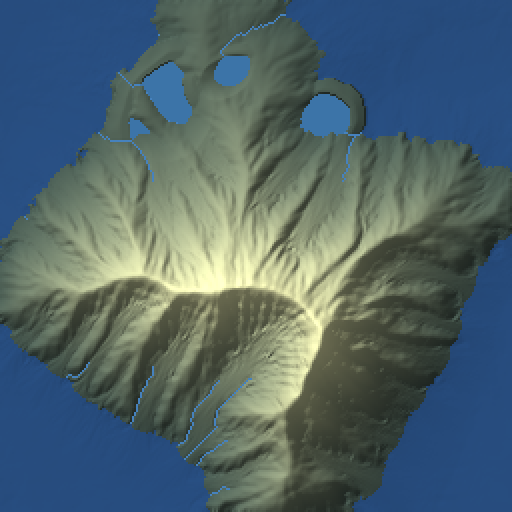
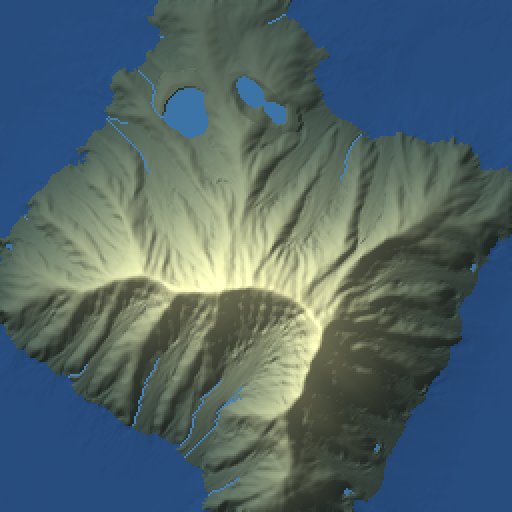
README: staged rebuild protection, fixed play-test start, manifest spawn, 162 tests; regenerate README images from the current generator
Claude-Session: https://claude.ai/code/session_01N4thvkQRHYqCzV9FLqSsD4

diff --git a/README.md b/README.md
@@ -124,7 +124,7 @@ python -m ofm generate --preset default --push unity         # 생성 후 열려
 | 가독성 | Lynch, *The Image of the City* | 랜드마크 후보(정상, 암석 지형, 폭포, 호수)의 가시선(LOS) 기반 현저성. 위치마다 보이는 랜드마크 수 |
 | 페이싱 / 탐험 | 플레이테스트 에이전트 | 아래 참고 |
 
-**호기심 기반 탐험 에이전트**(`psych/agents.py`): 프로필(`[[evaluation.profiles]]`)마다 정해진 수의 에이전트가 **토블러 보행 함수**(오르막에서 감속, 절벽·깊은 물 통과 불가, 동굴은 입구 사이 지름길)로 이동합니다. 인지 지도(본 것, 방문한 것)를 유지하며 *효용 / 이동시간*이 가장 큰 목표(발견한 POI, 랜드마크, 미탐색 경계)를 고릅니다. 이동하며 기록하는 것은 다음과 같습니다.
+**호기심 기반 탐험 에이전트**(`psych/agents.py`): 프로필(`[[evaluation.profiles]]`)마다 정해진 수의 에이전트가 첫 마을(없으면 맵 중앙에서 가장 가까운 걸을 수 있는 칸)에서 출발해 **토블러 보행 함수**(오르막에서 감속, 절벽·깊은 물 통과 불가, 동굴은 입구 사이 지름길)로 이동합니다. 인지 지도(본 것, 방문한 것)를 유지하며 *효용 / 이동시간*이 가장 큰 목표(발견한 POI, 랜드마크, 미탐색 경계)를 고릅니다. 이동하며 기록하는 것은 다음과 같습니다.
 
 - **경험 이벤트**: 새 랜드마크, POI 발견·도착, 새 바이옴, 전망, 물, 동굴 통과. 값은 `[evaluation.events]`에서 정합니다.
 - **지루함**: 강한 이벤트 없이 프로필의 인내 시간을 넘긴 구간. 시간과 위치를 지루함 지도에 쌓으며, AI 디렉터가 "어디를 고칠지" 정하는 핵심 신호입니다.
@@ -146,7 +146,7 @@ python -m ofm generate --preset default --push unity         # 생성 후 열려
 | 경관·다양성·미스터리·조망-피신 | 가시권·지표 피복·콘텐츠 | – |
 | 지형 품질 | 위 지형 품질 분석 | – |
 
-종합 점수는 `[evaluation.weights]` 가중 평균입니다. 계산할 수 없는 항목(예: 품질 분석을 끈 경우)은 빼고 다시 정규화합니다. 리포트에는 프로필별 점수, 몬테카를로 통계, 가중치가 함께 나옵니다. 지역 격자도 `evaluation.region_divs`(2–8)로 바꿀 수 있습니다(6이면 A1–F6).
+종합 점수는 `[evaluation.weights]` 가중 평균입니다. 계산할 수 없는 항목(예: 품질 분석을 끈 경우, 걸을 수 있는 칸이 없어 플레이테스트를 측정하지 못한 경우)은 빼고 다시 정규화하며, 가중치가 있는 항목이 하나도 없으면 가용 항목의 단순 평균을 씁니다. 리포트에는 프로필별 점수, 몬테카를로 통계, 가중치가 함께 나옵니다. 지역 격자도 `evaluation.region_divs`(2–8)로 바꿀 수 있습니다(6이면 A1–F6).
 
 ```toml
 [evaluation]
@@ -184,7 +184,12 @@ risk_aversion = 0.8
 1. **권한 검사**: 허용된 액션(`allowed_actions`)인지, 허용 지역(`allowed_regions`)이면서 보호 지역(`protected_regions`)이 아닌지, 액션별·반복당·전체 사용 한도(`limits`, `max_actions_per_iteration`, `max_total_actions`)를 넘지 않는지 확인합니다. `set_param`은 `param_ranges`에 등록된 경로만 범위 안으로 잘라 허용합니다. `ai.*`, `export.*`, 시드·크기 같은 핵심 키는 등록해도 바꿀 수 없습니다(모델이 자기 목적함수나 한도를 고치지 못함).
 2. **배치 제한**: 보호 지역, 보호 원(`[[ai.scope.protected_zones]]`), 에이전트 출발 마을 주변(`protect_spawn_radius`)은 부지 선택에서 빠집니다. 지형 편집은 경계에서 0으로 부드럽게 줄어들어 이음새가 생기지 않습니다.
 3. **사후 검증**: 적용 직후 한 번의 편집량(`max_height_delta_m`), 누적 변화량(`max_total_height_delta_m`), 바뀐 육지 비율(`max_modified_area_fraction`), 보호 구역 내 변화, NaN·무한대 높이를 측정합니다. 위반한 액션만 되돌립니다.
-4. **재빌드 보호**: 하류 시뮬레이션(지형 디테일, 지형 요소·장소·식생 선택)은 맵 전체를 다시 계산하므로, 다른 곳의 편집 때문에 보호 구역의 첨탑이 옮겨지거나 장소가 다시 뽑힐 수 있습니다. 그래서 재빌드 중 디테일 단계가 끝나면 보호 셀의 내용(고해상도 지형, 지형 요소, 장소, 식생)을 직전에 채택된 월드에서 되살립니다. 그래도 보호 구역의 지형·물(바다·호수·하천)·동굴 입구나 에이전트 출발 마을이 바뀌었으면, 평가하기 전에 후보 전체를 버리고 "되돌림"으로 기록합니다. 출발 마을은 재빌드 때도 고정되므로 후보들은 모두 같은 출발점에서 비교됩니다.
+4. **재빌드 보호** (`RebuildGuard`): 하류 시뮬레이션은 맵 전체를 다시 계산합니다. 기후가 바뀌어 보호 구역의 관목지가 초지가 되거나, 동굴 경로가 다시 뽑혀 보호 구역 아래 통로가 사라지거나, 첨탑·장소·식생이 다시 선택될 수 있습니다. 그래서 재빌드 도중 세 단계에서 보호 셀의 내용을 직전에 채택된 월드에서 되살리고, 그 뒤의 계산은 되살린 내용을 기준으로 진행합니다.
+   - **지표** (동굴·절벽 단계 뒤): 바이옴, 절벽 마스크, 지면 재질(경계 띠에서는 부드럽게 섞음), 보호 셀에 닿는 동굴(통로·공동 포함, id 유지), 지형 요소. 보호 구역으로 발자국이 뻗는 새 지형 요소는 뺍니다. 되살린 동굴은 바깥 지형이 바뀐 곳에서도 암반 피복을 유지해야 합니다.
+   - **지형** (디테일 단계 뒤, 식생·장소 배치 전): 보호 셀의 모든 꼭짓점(셀 모서리 포함)의 고해상도 높이. 식생과 장소는 이렇게 되살린 지형 위에 놓입니다.
+   - **객체** (장소·식생 배치 뒤): 보호 셀의 장소와 식생.
+
+   그래도 보호 구역의 지형·물(바다·호수·하천)·바이옴·동굴이나 출발 마을이 바뀌었거나 디테일 해상도가 달라졌으면, 평가하기 전에 후보 전체를 버리고 "되돌림"으로 기록합니다. 편집이 없는 재빌드는 같은 월드(점수·id·순서까지)를 그대로 재현합니다. 플레이테스트 출발점(`world.spawn`)은 월드마다 첫 평가 때 정해지고 이후 재빌드에서도 바뀌지 않으므로, 후보들은 모두 같은 출발점에서 비교됩니다.
 
 모델 응답 자체도 믿지 않습니다. 너무 큰 정수(부동소수점 범위 초과), NaN·Infinity, 지역 없는 `add_poi`처럼 형식이 깨진 제안은 예외를 일으키지 않고 무효 제안으로 기록되며, 스키마로 표현할 수 없는 오류도 수리 요청에 담깁니다. 지역 이름은 유니코드 정규화(NFKC)와 공백 제거를 거치고, 알 수 없는 보호·허용 지역은 경고가 아니라 설정 오류입니다(오타 때문에 보호가 풀리지 않도록). `set_param`이 설정을 검증에 실패하는 상태로 만들면 그 액션은 거절됩니다.
 
@@ -251,7 +256,7 @@ python -m ofm install unity /path/to/UnityProject     # Assets/OFM/{Editor,Runti
 
 | 파일 | 내용 |
 |---|---|
-| `world.json` | 매니페스트(Unity `JsonUtility` 호환). 좌표계, 모든 자산 경로, POI·랜드마크·동굴(Unity/Unreal 좌표 포함), 평가, 디렉터 이력, 설정 |
+| `world.json` | 매니페스트(Unity `JsonUtility` 호환). 좌표계, 모든 자산 경로, POI·랜드마크·동굴(Unity/Unreal 좌표 포함), 플레이테스트 출발점(`spawn`, 플레이어 시작 위치로 쓸 수 있음), 평가, 디렉터 이력, 설정 |
 | `terrain/heightmap.r16` | Unity RAW 16비트 LE, 남→북 행 순서, 해상도 2ⁿ+1 |
 | `terrain/heightmap_ue.png` | Unreal Landscape 16비트 PNG(32768 = 중앙 높이), 북→남 |
 | `terrain/holes.r8`, `holes.png` | 터레인 구멍(1 = 구멍) |
@@ -294,14 +299,14 @@ pip install -e ".[dev]"
 python -m pytest -q
 ```
 
-테스트 144개가 다음을 다룹니다.
+테스트 162개가 다음을 다룹니다.
 
 - 기본 연산과 지형: 노이즈와 그리드 연산, 메싱 수밀성과 청크 이음새, 물리 일관성(하천이 오르막으로 흐르지 않음, 호수 수면, 기온감률), 동굴 피복, 밀도장
 - 하천 지형 진화: 하도가 사면보다 깊이 파이는지, 해저 보존, 변화량 상한, 산지 앞 평야의 퇴적(Yuan 관계식을 정확히 만족), 내륙 맵 가장자리 벽 없음, 분지가 바다를 건드리지 않음, 해안 왜곡의 에일리어싱
 - 고해상도 디테일: 애추 안식각, 해빈 경사, 범람원 평탄도, 하도 개방(정점 사이까지)
-- 지형 품질: 스펙트럼 지수를 아는 합성 지형(육지 일부만 있어도), 주입한 스파이크, 축·대각 하도 아티팩트와 자연 이방성 구분, 지오모폰 지형형태, 해안선 차원
-- 평가 체계: 가중치와 재정규화, 측정 불가 처리, 프로필 구성, 몬테카를로 신뢰구간, 피로, 방향 상실, 지역 6×6
-- AI 범위 정책: 보호 구역, 재빌드 후 보호 내용 복원과 위반 시 후보 폐기, 출발 마을 고정, 한도, 편집 되돌림, NaN·거대 정수·정규화되지 않은 지역 이름, 설정을 깨는 `set_param`, 모의 실행, 예산 소진, 일시적 5xx, 스키마 전송, 수리 재시도, 잘린 응답 복구, 다수결
+- 지형 품질: 스펙트럼 지수를 아는 합성 지형(육지 일부만 있어도), 주입한 스파이크, 축·대각 하도 아티팩트와 자연 이방성 구분, 디테일 없는 면은 측정 불가, 지오모폰(원뿔·사발·V자 계곡·능선·사면·평지), 해안선 차원
+- 평가 체계: 가중치와 재정규화, 측정 불가 처리, 프로필 구성, 몬테카를로 신뢰구간, 피로, 방향 상실, 지역 6×6, 월드별 고정 출발점
+- AI 범위 정책: 보호 구역, 단계별 재빌드 보호(경계 띠의 식생·장소 높이, 셀 모서리 꼭짓점, 바이옴·재질, 보호 구역 아래 동굴 통로, 발자국이 넘어오는 지형 요소)와 위반 시 후보 폐기, 편집 없는 재빌드의 재현성, 출발 마을 고정, 한도, 편집 되돌림, NaN·거대 정수·정규화되지 않은 지역 이름, 설정을 깨는 `set_param`, 모의 실행, 예산 소진, 일시적 5xx, 스키마 전송, 수리 재시도, 잘린 응답 복구, 다수결
 - 설정: `--set`의 목록·표 목록 파싱, 유한하지 않은 값과 잘못된 대역 거부, 엄격한 JSON 출력
 - 내보내기와 엔진 연동: 내보내기 왕복(높이맵, .ofmmesh, .glb), 모의 Ollama·OpenAI 서버를 통한 AI 리뷰, 모의 Unity TCP·Unreal Remote Control 브리지, 가짜 `unreal` 모듈로 돌리는 Unreal 임포터. Unity C# 스크립트는 API 스텁에 대해 `mcs`로 컴파일하고, `.ofmmesh` 리더가 Python 출력과 같은 값을 읽는지 mono로 확인했습니다.
 
